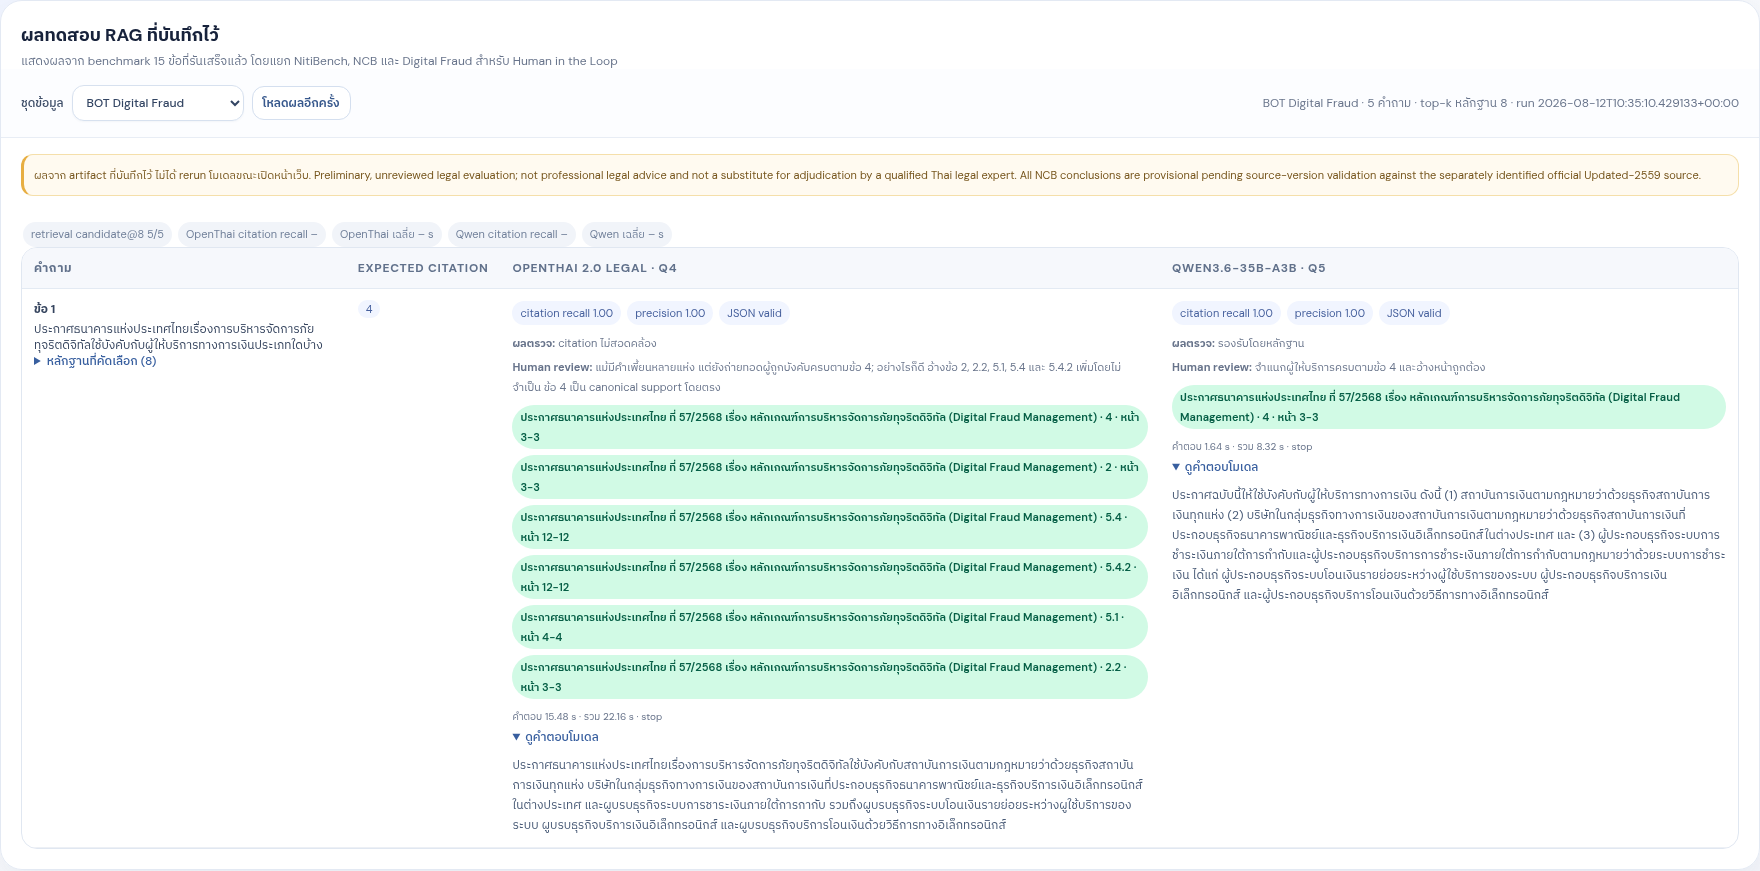
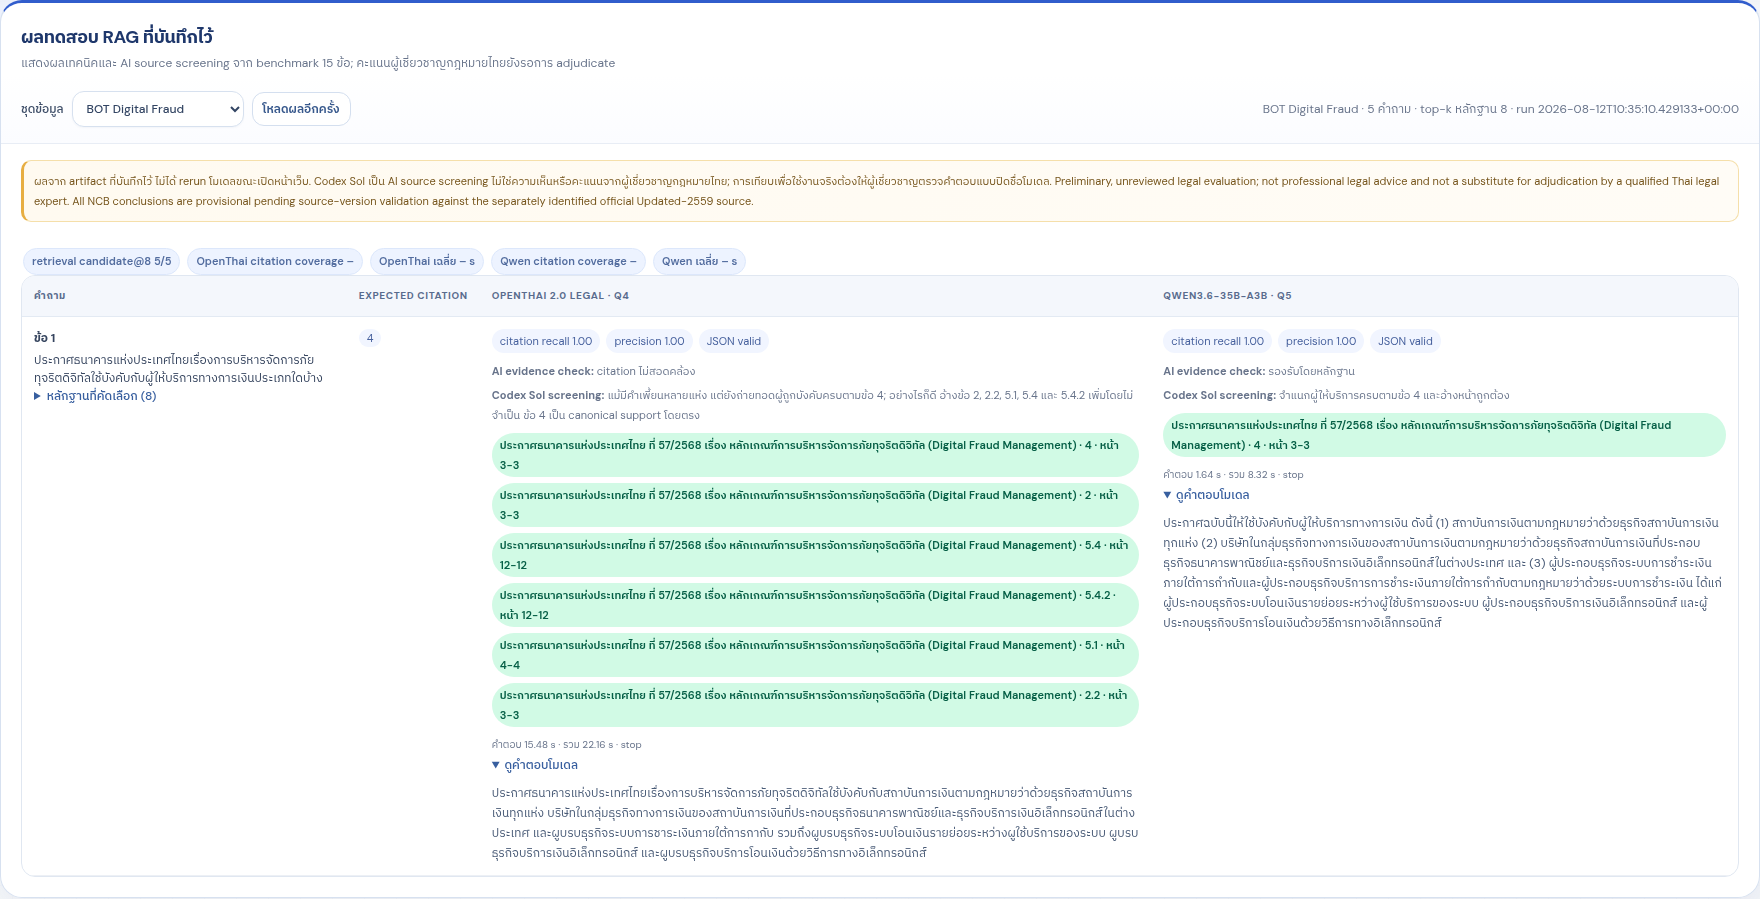
docs: clarify benchmark review and refresh workbench UI

diff --git a/README.md b/README.md
@@ -5,6 +5,14 @@
 
 > ผลนี้เป็น **preliminary / unreviewed** ไม่ใช่คำแนะนำหรือคำวินิจฉัยทางกฎหมาย
 > ก่อนใช้งานจริงต้องให้ผู้เชี่ยวชาญกฎหมายไทยตรวจตัวบทฉบับปัจจุบัน ข้อเท็จจริง และข้อยกเว้น
+>
+> **การตีความคะแนน:** expected-citation coverage, grounded citation และผล `Codex Sol` ด้านล่างเป็นตัวชี้วัดเชิงเทคนิค/AI source screening เท่านั้น ไม่ใช่คะแนนหรือความเห็นจากผู้เชี่ยวชาญกฎหมายไทย และไม่ใช้จัดอันดับว่าโมเดลใด “ดีกว่า” โดยรวม
+
+## หน้าจอ Legal RAG Workbench
+
+หน้าแชตถูกออกแบบเป็น workbench: คอลัมน์ซ้ายใช้กรอกและส่งคำถามเท่านั้น, ส่วนกลางเลือกชุดข้อมูล/Use case และแสดงคำตอบพร้อมหลักฐาน, ส่วนขวาเก็บประวัติและการตั้งค่า retrieval. มีแท็บแยกสำหรับค้นกฎหมาย, ตรวจตาราง corpus และตรวจผล benchmark.
+
+![หน้าจอ Legal RAG Workbench](assets/ui/workbench-chat.png)
 
 ## ชุดข้อมูล
 
@@ -40,19 +48,19 @@ PDF NCB จาก BOT ที่ระบุ `Updated-2559` ใช้เป็น
 | Generation | temperature 0.0, top_p 1.0, max_tokens 2,048, seed 42, thinking off | JSON answer + citations |
 | Leakage control | expected citation / เฉลย ใช้หลัง inference | ไม่เข้า embedding, retriever, reranker หรือ prompt |
 
-## ผลรายข้อสำหรับ Human in the Loop
+## ผลรายข้อ: ตัวชี้วัดเทคนิคและ AI source screening
 
-ผลในคอลัมน์โมเดลเป็น `citation recall · Codex Sol review`:
+ผลในคอลัมน์โมเดลเป็น `expected-citation coverage · Codex Sol AI screening` โดย `coverage` วัดว่า citation ที่โมเดลเลือกครอบคลุมรายการ expected หลัง inference หรือไม่—not whether every material proposition in the Thai answer is legally correct.
 
 - `supported` = สาระสำคัญตามหลักฐานที่รับเข้า benchmark
 - `partial` = แก่นคำตอบมีหลักฐาน แต่ actor, เงื่อนไข, scope หรือส่วนสำคัญขาด/คลาดเคลื่อน
 - `over-citation` = คำตอบมีสาระรองรับ แต่มี citation ที่ไม่จำเป็นหรือไม่ตรงข้ออ้าง
 
-ทุกแถวที่เป็น `partial` หรือ `over-citation` ควรให้ผู้ตรวจมนุษย์เปิดคำตอบเต็มและตัวบทต้นทางก่อนอนุมัติ
+ทุกแถวที่เป็น `partial` หรือ `over-citation` ควรให้ผู้ตรวจมนุษย์เปิดคำตอบเต็มและตัวบทต้นทางก่อนอนุมัติ. สำหรับทุกแถว รวมถึง `supported` ผู้เชี่ยวชาญกฎหมายไทยยังต้อง adjudicate เมื่อจะใช้ผลเพื่อเปรียบเทียบโมเดลหรือใช้ในงานจริง.
 
 ### 1) NitiBench
 
-| คำถาม | Expected citation | OpenThai Q4 | Qwen Q5 | เหตุผล / จุดให้คนพิจารณา |
+| คำถาม | Expected citation | OpenThai Q4<br>(AI screen) | Qwen Q5<br>(AI screen) | เหตุผล / จุดให้คนพิจารณา |
 |---|---|---|---|---|
 | ศูนย์ซื้อขายสัญญาซื้อขายล่วงหน้าไม่มีใบอนุญาตมีความผิดหรือมีผลอย่างไร | มาตรา 132 | 1.00 · supported | 1.00 · supported | โทษจำคุก ปรับ และปรับรายวันตรงตัวบท |
 | การเช่าถือสวนมีหลักเกณฑ์ตามกฎหมายอย่างไร | มาตรา 565 | 1.00 · supported | 1.00 · supported | หลักเกณฑ์การเช่าถือสวนตรงตัวบท; Qwen กล่าวถึงนาซึ่งเกินคำถามแต่ไม่เปลี่ยนผล |
@@ -62,7 +70,7 @@ PDF NCB จาก BOT ที่ระบุ `Updated-2559` ใช้เป็น
 
 ### 2) NCB — พ.ร.บ. การประกอบธุรกิจข้อมูลเครดิต
 
-| คำถาม | Expected citation | OpenThai Q4 | Qwen Q5 | เหตุผล / จุดให้คนพิจารณา |
+| คำถาม | Expected citation | OpenThai Q4<br>(AI screen) | Qwen Q5<br>(AI screen) | เหตุผล / จุดให้คนพิจารณา |
 |---|---|---|---|---|
 | หากเจ้าของข้อมูลโต้แย้งความถูกต้องของข้อมูลเครดิตและยังหาข้อยุติไม่ได้ บริษัทข้อมูลเครดิตต้องดำเนินการอย่างไร | มาตรา 27 | 1.00 · **partial** | 1.00 · supported | OpenThai ไม่กล่าวถึงหน้าที่ระบุข้อโต้แย้งในรายงาน และทำให้สิทธิอุทธรณ์ของเจ้าของข้อมูลดูเป็นหน้าที่ของบริษัท |
 | บริษัทข้อมูลเครดิตเปิดเผยข้อมูลแก่สมาชิกหรือผู้ใช้บริการเพื่อวิเคราะห์สินเชื่อได้ภายใต้เงื่อนไขใด | มาตรา 20 | 1.00 · supported + **over-citation** | 1.00 · supported | สาระความยินยอมถูกต้อง แต่ OpenThai อ้างมาตราใกล้เคียงเกินจำเป็น; คนตรวจควรตัด citation ให้เหลือมาตรา 20 |
@@ -72,13 +80,23 @@ PDF NCB จาก BOT ที่ระบุ `Updated-2559` ใช้เป็น
 
 ### 3) BOT Digital Fraud Management
 
-| คำถาม | Expected citation | OpenThai Q4 | Qwen Q5 | เหตุผล / จุดให้คนพิจารณา |
+| คำถาม | Expected citation | OpenThai Q4<br>(AI screen) | Qwen Q5<br>(AI screen) | เหตุผล / จุดให้คนพิจารณา |
 |---|---|---|---|---|
 | ประกาศธนาคารแห่งประเทศไทยเรื่องการบริหารจัดการภัยทุจริตดิจิทัลใช้บังคับกับผู้ให้บริการทางการเงินประเภทใดบ้าง | ข้อ 4 | 1.00 · supported + **over-citation** | 1.00 · supported | OpenThai ระบุขอบเขตได้ครบ แต่ควรอ้างข้อ 4 โดยตรงแทนข้อใกล้เคียงหลายข้อ |
 | ผู้ให้บริการทางการเงินต้องกำหนดนโยบายและการกำกับดูแลการบริหารจัดการภัยทุจริตดิจิทัลอย่างไร | ข้อ 5.3.1, 5.3.1(2) | 0.50 · **partial** | 1.00 · supported | OpenThai ขาดโครงสร้าง governance สำคัญ และเปลี่ยน “อย่างสม่ำเสมอ” เป็น “อย่างสมบูรณ์” ซึ่งมีความหมายต่างกัน |
 | ผู้ให้บริการทางการเงินต้องมีการติดตามและตรวจจับความผิดปกติจากการทำธุรกรรมทางการเงินอย่างไร | ข้อ 5.3.2(2), 5.3.2(2.1) | 0.50 · supported | 1.00 · supported | สาระการติดตามเชิงรุกและความเสี่ยงทั้งสองกลุ่มถูกต้อง แต่ OpenThai ไม่อ้างครบทุกข้อย่อยที่คาดไว้ |
 | เมื่อเกิดภัยทุจริตดิจิทัล ผู้ให้บริการทางการเงินต้องกำหนดระยะเวลากระบวนการและดูแลลูกค้าที่ได้รับผลกระทบอย่างไร | ข้อ 5.3.2(4.2), 5.3.2(4.3) | 0.50 · **partial** | 1.00 · supported | OpenThai ครอบคลุมเวลา/การติดต่อกลับตาม 4.2 แต่ขาดการดูแล เยียวยา และเงื่อนไขตาม 4.3 |
 | ผู้ให้บริการทางการเงินต้องรายงานข้อมูลเกี่ยวกับการบริหารจัดการภัยทุจริตดิจิทัลต่อธนาคารแห่งประเทศไทยอย่างไร | ข้อ 5.3.5 | 1.00 · supported | 1.00 · supported | หน้าที่ส่งรายงานตามกำหนดและให้ข้อมูลเพิ่มเติมรายกรณีตรงตัวบท |
+
+#### วิธีอ่านผล Digital Fraud ของ OpenThai Q4
+
+- **ข้อ 4 (scope):** สาระครบและ citation ข้อ 4 ถูกต้อง; ข้อสังเกตคืออ้างข้ออื่นเกินจำเป็น จึงไม่ใช่คำตอบผิด.
+- **ข้อ 5.3.1 (governance):** AI screening ให้ `partial` เพราะคำตอบขาดโครงสร้างผู้กำกับดูแลบางส่วน และแทนคำว่า “อย่างสม่ำเสมอ” ด้วย “อย่างสมบูรณ์”; ผู้เชี่ยวชาญไทยต้องตัดสินว่าความต่างนี้กระทบสาระสำคัญเพียงใด.
+- **ข้อ 5.3.2 (monitoring):** expected-citation coverage 0.50 เพราะอ้างไม่ครบข้อย่อยที่ตั้งไว้ แต่ AI screening เห็นว่าสาระ monitoring หลักยังรองรับได้ จึงเป็นตัวอย่างว่าค่า coverage ต่ำไม่ได้แปลว่าคำตอบผิด.
+- **ข้อ 5.3.2 (4.2)–(4.3) (customer response):** AI screening ให้ `partial` เพราะคำตอบครอบคลุม timeline/การติดต่อกลับ แต่ไม่กล่าวถึงการดูแลที่เป็นธรรม ผู้รับผิดชอบ การปลดระงับ และการเยียวยาในอีก limb ของคำถาม.
+- **ข้อ 5.3.5 (reporting):** สาระและ citation ตรงตาม requirement.
+
+ดังนั้นค่า `70%` ของ OpenThai คือ **expected-citation coverage** สำหรับ fixed 5 questions—not a Thai legal-expert correctness score.
 
 ## ภาพตัวอย่างคำถามและคำตอบที่รันจริง
 
@@ -96,21 +114,36 @@ PDF NCB จาก BOT ที่ระบุ `Updated-2559` ใช้เป็น
 
 ![ตัวอย่าง Digital Fraud: คำถามเรื่องขอบเขตผู้ให้บริการทางการเงิน และคำตอบ OpenThai/Qwen](assets/benchmark-examples/digital-fraud-example.png)
 
-## สรุปคะแนนหลังผลรายข้อ
+## สรุปตัวชี้วัดเชิงเทคนิคหลังผลรายข้อ
 
-การค้นคืนพบ expected citation ใน top-8 ครบ 15/15 ข้อ และ JSON parse ได้ครบทั้งสองโมเดล
+การค้นคืนพบ expected citation ใน top-8 ครบ 15/15 ข้อ และ JSON parse ได้ครบทั้งสองโมเดล. ตารางนี้ไม่ใช่ leaderboard ของคุณภาพกฎหมาย: Qwen Q5 ทำ `expected-citation coverage` ได้สูงกว่าใน fixed set นี้ ขณะที่ OpenThai Q4 มีคำตอบที่ source-supported หลายข้อ แต่บางข้อเลือก citation ไม่ครบ, ตอบไม่ครบหลายเงื่อนไข หรือมีคำเพี้ยนที่ต้องพิจารณาความหมายทางกฎหมาย.
 
-| Dataset | Expected-citation recall<br>OpenThai / Qwen | Codex Sol source-grounded review<br>OpenThai / Qwen | เวลา end-to-end เฉลี่ย<br>OpenThai / Qwen |
+| Dataset | Expected-citation coverage<br>OpenThai / Qwen | Codex Sol AI source screening<br>OpenThai / Qwen | เวลา end-to-end เฉลี่ย<br>OpenThai / Qwen |
 |---|---:|---:|---:|
 | NitiBench | 100% / 100% | 4 supported + 1 partial / 5 supported | 21.73s / 10.69s |
 | NCB (รวมฉบับแก้ไข 1–6) | 100% / 100% | 3 supported + 2 partial / 5 supported | 18.85s / 7.70s |
 | Digital Fraud | 70% / 100% | 3 supported + 2 partial / 5 supported | 21.18s / 8.83s |
 | **รวม 15 ข้อ** | **90% / 100%** | **10 supported + 5 partial / 15 supported** | **20.58s / 9.07s** |
 
+### การให้คะแนนหลักที่ต้องใช้ผู้เชี่ยวชาญกฎหมายไทย
+
+ยังไม่มีผู้เชี่ยวชาญกฎหมายไทย adjudicate คำตอบทั้ง 30 ชิ้น ดังนั้น **ยังไม่มีคะแนนหลักที่ใช้เปรียบเทียบ OpenThai กับ Qwen**. ก่อนประกาศผลเปรียบเทียบ ให้ผู้เชี่ยวชาญอย่างน้อย 2 คนตรวจแบบปิดชื่อโมเดล โดยใช้ตัวบทภาษาไทยที่มีผลใช้บังคับเป็นหลัก และแยกคะแนนดังนี้:
+
+| มิติที่ผู้เชี่ยวชาญตรวจ | น้ำหนัก | สิ่งที่ต้องเทียบจากคำตอบไทย |
+|---|---:|---|
+| สาระข้อกฎหมายและผลทางกฎหมาย | 40% | หลัก/ข้อห้าม/สิทธิ/โทษ ถูกต้องตามตัวบทหรือไม่ |
+| ผู้มีหน้าที่ เงื่อนไข และข้อยกเว้น | 25% | ไม่สลับ actor, modality, ระยะเวลา หรือเงื่อนไขสำคัญ |
+| ความครบถ้วนตามขอบเขตคำถาม | 20% | ตอบครบทุกส่วนที่โจทย์ถาม ไม่ขาด limb สำคัญ |
+| Citation และ page provenance | 10% | อ้างตรงข้อกำหนด ไม่อ้างข้อใกล้เคียงเกินจำเป็น |
+| ภาษาไทยเชิงกฎหมายและความชัดเจน | 5% | คำเพี้ยนไม่เปลี่ยนความหมาย และสื่อสารให้ผู้ใช้ไทยเข้าใจ |
+
+หากผู้ตรวจสองคนเห็นต่างอย่างมีนัยสำคัญ ให้ผู้เชี่ยวชาญคนที่สาม adjudicate พร้อมบันทึกเหตุผลระดับ claim. `Codex Sol` ใช้ได้เพียงช่วยคัดแถวที่เสี่ยงต่อการตกหล่น/สลับ actor/อ้างเกิน—not replace this Thai legal-expert review.
+
 | ข้อสรุป | ความหมาย |
 |---|---|
 | Retrieval | ทั้งสองโมเดลได้รับ evidence เดียวกัน และ retrieval พบ expected citation ครบ 15/15 |
-| Answer synthesis | Qwen ทำได้ดีกว่าใน fixed 15 cases นี้: supported 15/15 เทียบกับ OpenThai 10/15 |
+| AI source screening (ไม่ใช่ expert score) | Qwen ได้ `supported` มากกว่าตาม Codex Sol ใน fixed 15 cases; ผลนี้ใช้ชี้แถวที่ควรตรวจ ไม่ใช่ข้อสรุปว่า Qwen ดีกว่า OpenThai โดยรวม |
+| Thai legal-expert score | ยังไม่มี; ต้องตรวจแบบปิดชื่อโมเดลตาม rubric ด้านบนก่อนสรุปผลเปรียบเทียบ |
 | Human approval gate | ห้าม approve เฉพาะจาก citation; เปิดตรวจคำตอบเต็มและตัวบททุกแถวที่เป็น partial หรือ over-citation |
 | เวลา | Qwen เร็วกว่ารอบนี้ แต่เป็น sequential run และคนละ runtime/quantization ไม่ใช่ production benchmark |
 
